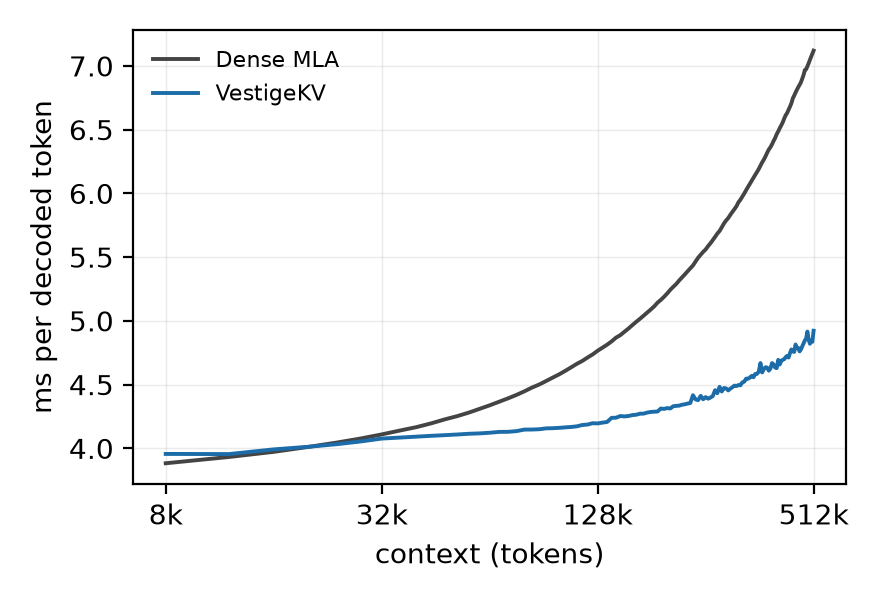
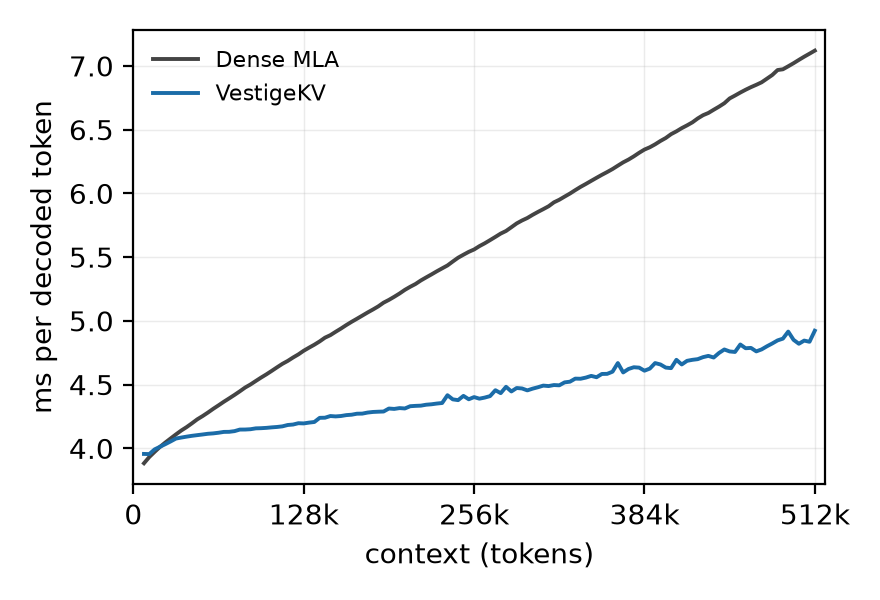
The latency x-axis is linear: a log one made a straight line look exponential
Dense MLA's per-token cost is linear in context -- that is what the slope in
the caption says, 6.3 ns per step per cached token. Drawn on a log2 x-axis it
rises like an exponential, because that is what a linear function does there.
A reviewer meeting an apparently exponential decode curve reasonably suspects
the measurement before the axis, and the figure was inviting exactly that.

On equal spacing the same data reads correctly: dense is a straight line from
3.9 to 7.1 ms, VestigeKV a much shallower one from 4.0 to 4.9, and the gap
grows at a constant rate rather than appearing to explode. It is also the
stronger picture, since the claim is about two slopes.

What it costs is the crossover, which sits near 24k and is now inside the
first 5% of the axis. The caption states the number, so the figure does not
have to carry it, and distorting the growth to show one point is the trade
that created this problem.

Both copies regenerated -- the paper's and the one beside the archive -- and
checked byte-identical, because updating one of two was the last bug here.

diff --git a/mexp/kimi/make_figures.py b/mexp/kimi/make_figures.py
@@ -83,9 +83,15 @@ def draw(lat, thr, out_dir, emit):
         xs = [c / 1024 for c, _ in lat[LAT_KEY[arm]]]
         ys = [v for _, v in lat[LAT_KEY[arm]]]
         ax.plot(xs, ys, color=color, lw=1.4, label=label)
-    ax.set_xscale("log", base=2)
-    ax.set_xticks([8, 32, 128, 512])
-    ax.set_xticklabels(["8k", "32k", "128k", "512k"])
+    # Linear, and deliberately. The dense arm's cost is linear in context, and
+    # a linear function on a log x-axis rises like an exponential -- the curve
+    # then reads as a measurement gone wrong rather than as the straight line
+    # it is. On equal spacing dense is a straight line of slope
+    # \serveSlopeDense and VestigeKV is nearly flat, which is both the honest
+    # picture and the stronger one.
+    ax.set_xticks([0, 128, 256, 384, 512])
+    ax.set_xticklabels(["0", "128k", "256k", "384k", "512k"])
+    ax.set_xlim(0, 520)
     ax.set_xlabel("context (tokens)")
     ax.set_ylabel("ms per decoded token")
     ax.legend(frameon=False, fontsize=8, loc="upper left")
